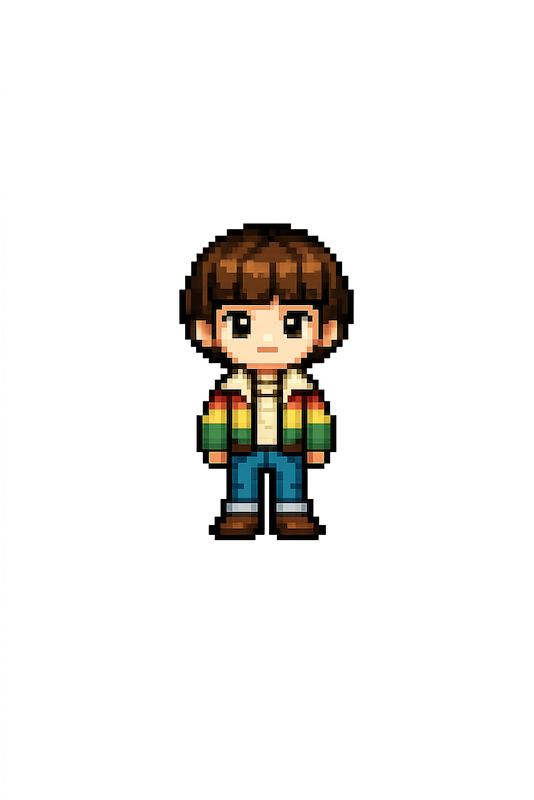
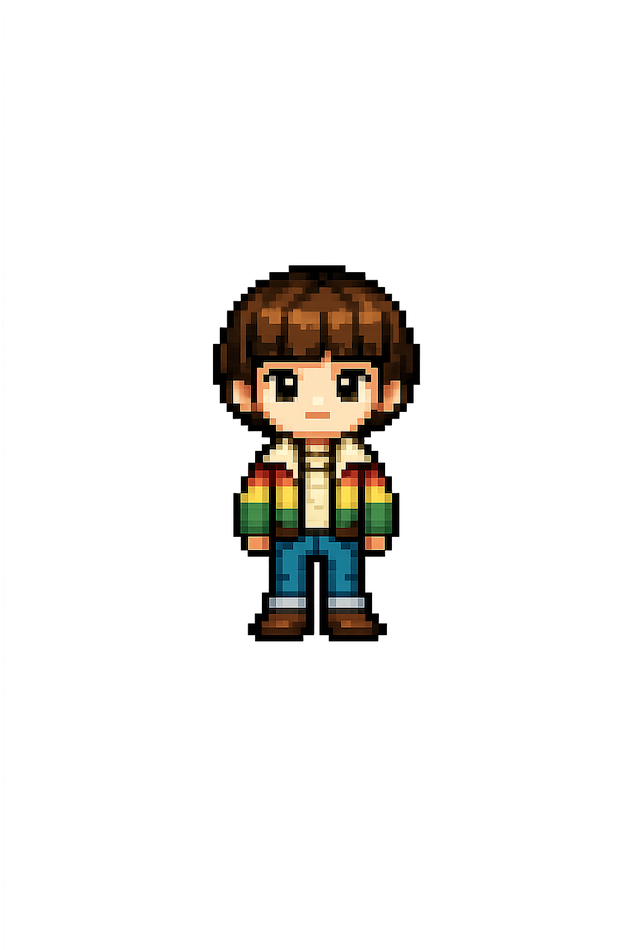
Play button fixed and Lucas character

diff --git a/assignment.py b/assignment.py
@@ -68,16 +68,24 @@ state = "HOME"
 
 #***********IMAGES**************
 
+#Home BG
 HomePageBG2 = pygame.image.load ("images/HomePageBG2.png")
+#Buttons
 InstructionsButton = pygame.image.load ("images/InstructionsButton.png")
 CharacterButton = pygame.image.load ("images/CharactersButton.png")
 PlayButton = pygame.image.load("images/PlayButton.png")
+#State BG
 InstructionsBG = pygame.image.load("images/InstructionsBG.png")
 CharactersBG = pygame.image.load("images/CharactersBG.png")
+#Character State Images
 ElevenChar = pygame.image.load("images/ElevenFront.png")
 MikeChar = pygame.image.load("images/MikeFront.png")
 DustinChar = pygame.image.load("images/DustinFront.png")
 WillChar = pygame.image.load("images/WillFront.png")
+LucasChar = pygame.image.load("images/LucasFront.png")
+#Play State Images
+Maze = pygame.image.load("images/Maze.png")
+
 
 #***********SCALED IMAGES**************
 
@@ -98,7 +106,7 @@ home_button = [
 
     pygame.Rect(523, 101, 234, 47),
     pygame.Rect(545, 188, 191, 56),
-    pygame.Rect(464,220, scaled_image3.get_width(), scaled_image3.get_height())
+    pygame.Rect(562, 288, 155, 37)
     
 ]
 back_button = pygame.Rect(30, 30, 150, 60)
@@ -111,6 +119,7 @@ while Running:
     # *********EVENTS**********
 
     mx, my = pygame.mouse.get_pos()
+    print(mx, my)
 
     for event in pygame.event.get():
         if event.type == pygame.QUIT:
@@ -144,11 +153,14 @@ while Running:
         window.blit(scaled_image5, (0,0))
         window.blit(ElevenChar, (375,345))
         window.blit(MikeChar, (170,340))
-        window.blit(DustinChar, (-60,290))
-        window.blit(WillChar, (660,210))
+        window.blit(DustinChar, (-50,290))
+        window.blit(WillChar, (570,170))
+        window.blit(LucasChar, (750, 190))
 
 
-    #if state == "PlAY":
+    elif state == "PLAY":
+        window.fill(BLACK)
+        window.blit (Maze, (0,0))
 
 
     elif state == "HOME":
@@ -174,4 +186,4 @@ while Running:
 
 pygame.quit()
 
-#fix button ranges
+#fix play button range
